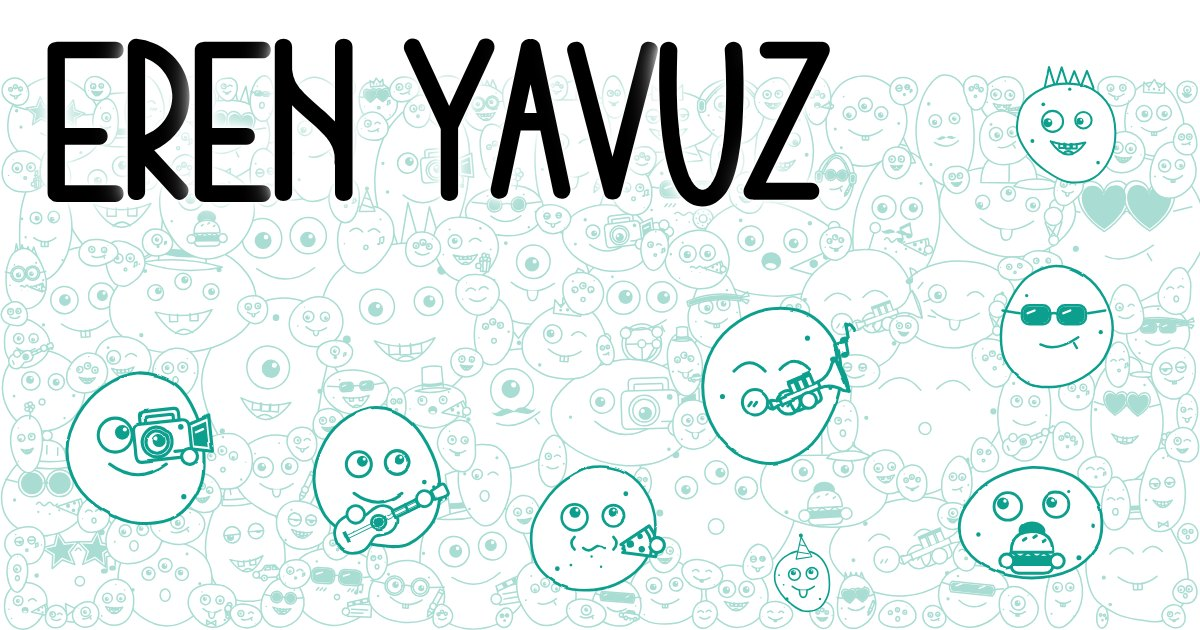
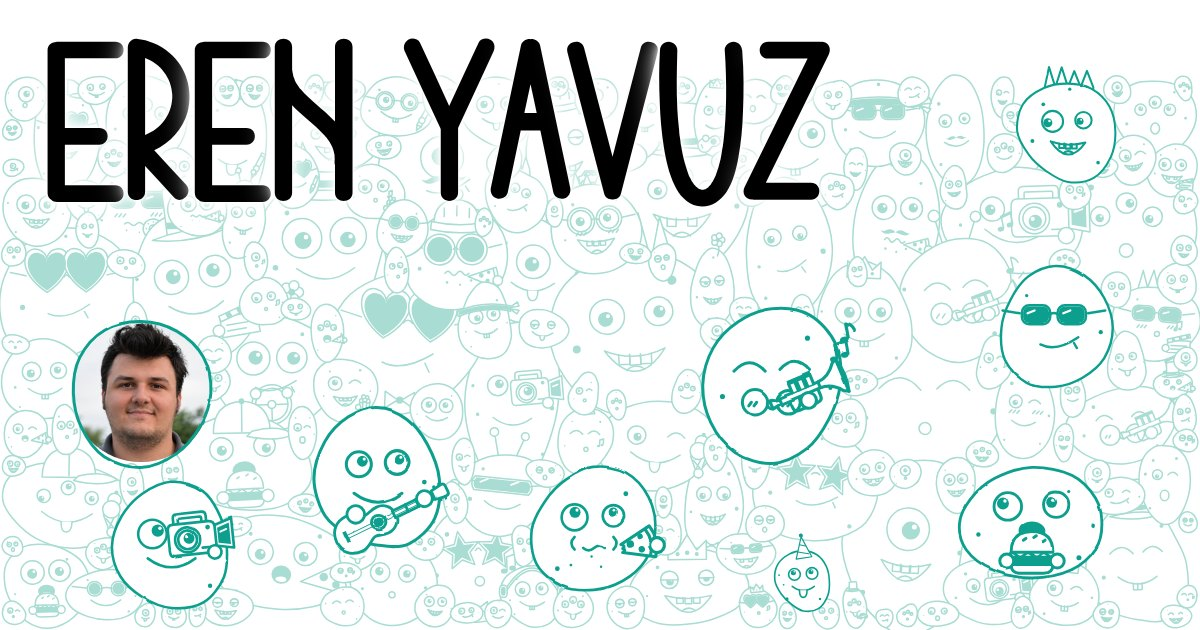
Girişe profil fotoğrafı, süreçten 'Çay' adımı kaldırıldı
- Kamera tutan karakterin yerine yuvarlak profil fotoğrafı (kafalarla aynı boy, elle çizilmiş turkuaz halka); kameralı biraz aşağıda
- Mobil yerleşim yeniden düzenlendi
- Süreç 5 adım; paylaşım görseli ve sitemap güncellendi

Claude-Session: https://claude.ai/code/session_01FnUBnccVDkXZpZL3Fhhb4p

diff --git a/index.html b/index.html
@@ -32,6 +32,7 @@
    "@id": "https://erenyavuz.com/#person",
    "name": "Eren Yavuz",
    "url": "https://erenyavuz.com/",
+   "image": "https://erenyavuz.com/assets/eren.jpg",
    "email": "mailto:hello@erenyavuz.com",
    "jobTitle": [
     "Graphic & Motion Designer",
@@ -470,11 +471,18 @@ ul,ol{padding:0;list-style:none}
 .cast .c1{--x:84%;--y:10%;--w:min(10vw,20vh)}
 .cast .c2{--x:57%;--y:45%;--w:min(15vw,28vh)}
 .cast .c3{--x:82%;--y:39%;--w:min(12vw,23vh)}
-.cast .c4{--x:4%; --y:55%;--w:min(15vw,29vh)}
+.cast .c4{--x:8%; --y:73%;--w:min(13vw,24vh)}
 .cast .c5{--x:24%;--y:60%;--w:min(15vw,30vh)}
 .cast .c6{--x:79%;--y:66%;--w:min(14vw,27vh)}
 .cast .c7{--x:43%;--y:70%;--w:min(13vw,25vh)}
 .cast .c8{--x:63%;--y:82%;--w:min(8vw,15vh)}
+/* Profil fotoğrafı: karakterlerin kafasıyla aynı boyda, elle çizilmiş turkuaz çerçeve */
+.me{position:absolute;z-index:2;left:var(--x);top:var(--y);width:var(--w);aspect-ratio:1;margin:0;pointer-events:none;--x:4.5%;--y:48.5%;--w:min(14.5vw,28vh)}
+.me img{position:absolute;inset:10%;width:80%;height:80%;border-radius:50%;object-fit:cover;background:var(--mint);opacity:0;transform:scale(.8);transition:opacity .5s ease .8s,transform .8s cubic-bezier(.3,1.5,.5,1) .8s}
+.me .ring{position:absolute;inset:0;width:100%;height:100%;overflow:visible}
+.me .ring path{fill:none;stroke:var(--monster);stroke-width:3.4;stroke-linecap:round;stroke-dasharray:1 1;stroke-dashoffset:1;transition:stroke-dashoffset 1.15s var(--ease) .7s}
+.me.in img{opacity:1;transform:none}
+.me.in .ring path{stroke-dashoffset:0}
 
 /* ===== İşler: carousel (kapaklar) + altta açılan galeri ===== */
 .carousel{
@@ -612,12 +620,13 @@ ul,ol{padding:0;list-style:none}
   .name{font-size:clamp(84px,40vw,200px);line-height:.86}
   .name .w{display:block}
   .cast .c1,.cast .c8{display:none}
-  .cast .c3{--x:64%;--y:50.5%;--w:27vw}
-  .cast .c4{--x:3%; --y:52%;--w:32vw}
-  .cast .c2{--x:37%;--y:62.5%;--w:34vw}
-  .cast .c5{--x:2%; --y:71%;--w:34vw}
-  .cast .c6{--x:68%;--y:79%;--w:29vw}
-  .cast .c7{--x:37%;--y:80%;--w:30vw}
+  .me{--x:3%;--y:53.5%;--w:31vw}
+  .cast .c3{--x:66%;--y:51%;--w:27vw}
+  .cast .c2{--x:35%;--y:57.5%;--w:32vw}
+  .cast .c4{--x:2%; --y:67%;--w:30vw}
+  .cast .c5{--x:66%;--y:66%;--w:31vw}
+  .cast .c7{--x:31%;--y:76.5%;--w:30vw}
+  .cast .c6{--x:68%;--y:80%;--w:28vw}
   .carousel{--h:clamp(220px,62vw,420px)}
   .car-hint{display:none}
   .detail-grid{columns:1}
@@ -644,6 +653,7 @@ ul,ol{padding:0;list-style:none}
   .mon .fl{transition:none;opacity:1}
   .pattern .pg{transition:none;opacity:1;transform:none}
   .m.waving .arm,.m:hover .mon,.m.boing .mon,.m.play .frames .fr{animation:none}
+  .me img,.me .ring path{transition:none;opacity:1;transform:none;stroke-dashoffset:0}
   .nav,.chapter{transition:none}
   .d-item{transition:none;opacity:1;transform:none}
 }
@@ -706,6 +716,10 @@ ul,ol{padding:0;list-style:none}
       <span class="m c7" data-m="pizza"     data-seed="5"></span>
       <span class="m c8" data-m="party"     data-seed="15"></span>
     </div>
+    <figure class="me" id="me">
+      <img src="assets/eren.jpg" width="480" height="480" alt="Eren Yavuz" decoding="async" fetchpriority="high">
+      <svg class="ring" viewBox="0 0 200 200" aria-hidden="true" focusable="false"><g filter="url(#boil)"></g></svg>
+    </figure>
     <div class="hero-text">
       <h1 class="name" id="name" aria-label="Eren Yavuz"><span class="w">Eren</span> <span class="w">Yavuz</span></h1>
       <p class="hero-tag">Graphic &amp; Motion Designer /<span> Art&nbsp;Director</span></p>
@@ -777,7 +791,6 @@ ul,ol{padding:0;list-style:none}
           <li><span class="num">03</span><h3 data-i18n="p3.t">Stil kareleri</h3><p data-i18n="p3.d"></p></li>
           <li><span class="num">04</span><h3 data-i18n="p4.t">Hareket</h3><p data-i18n="p4.d"></p></li>
           <li><span class="num">05</span><h3 data-i18n="p5.t">Teslim</h3><p data-i18n="p5.d"></p></li>
-          <li><span class="num">06</span><h3 data-i18n="p6.t">Çay</h3><p data-i18n="p6.d"></p></li>
         </ol>
       </div>
     </div>
@@ -865,7 +878,6 @@ ul,ol{padding:0;list-style:none}
       "p3.t":"Stil kareleri","p3.d":"Aklımızdakileri şekillendirmeye başlarız: renk, kompozisyon, tipografi.",
       "p4.t":"Hareket","p4.d":"Kare kare sahnelerden konuşuruz.",
       "p5.t":"Teslim","p5.d":"Onaylanmış tasarımı talep edilen formatta hazırlarım.",
-      "p6.t":"Çay","p6.d":"Bir sonraki projeye kadar kendime çok iyi bakarım.",
       "cta.l1":"Aklında bir fikir mi var?","cta.l2":"Birlikte gerçekleştirelim.","cta.mail":"E-posta yaz","cta.copy":"Adresi kopyala","cta.copied":"Kopyalandı",
       "footer.elsewhere":"Başka yerlerde","footer.time":"İstanbul'da saat","footer.top":"Başa dön",
       "meta.desc":"Eren Yavuz, İstanbul'da grafik ve motion tasarımcı, art director: product, key visual, kampanya, ambalaj, motion, sosyal medya, print ve etkinlik tasarımı."
@@ -888,7 +900,6 @@ ul,ol{padding:0;list-style:none}
       "p3.t":"Style frames","p3.d":"We start shaping what's in our heads: colour, composition, typography.",
       "p4.t":"Motion","p4.d":"We talk through the scenes, frame by frame.",
       "p5.t":"Delivery","p5.d":"I prepare the approved design in the formats you need.",
-      "p6.t":"Tea","p6.d":"Until the next project, I take very good care of myself.",
       "cta.l1":"Got an idea?","cta.l2":"Let's make it happen.","cta.mail":"Write an email","cta.copy":"Copy address","cta.copied":"Copied",
       "footer.elsewhere":"Elsewhere","footer.time":"Time in Istanbul","footer.top":"Back to top",
       "meta.desc":"Eren Yavuz is an Istanbul-based graphic and motion designer and art director: product, key visual, campaign, packaging, motion, social media, print and event design."
@@ -1571,6 +1582,10 @@ ul,ol{padding:0;list-style:none}
     el.addEventListener("animationend", e => { if (e.animationName === "squash") el.classList.remove("boing"); });
   }
 
+  /* ---------- Profil fotoğrafı: elle çizilmiş halka ---------- */
+  const me = $("#me");
+  $(".ring g", me).innerHTML = `<path pathLength="1" d="${blob(rand(77), 100, 100, 81.5, 81.5, .55)}"/>`;
+
   /* ---------- Giriş: boşluksuz, kesilmeyen canavar kalabalığı ---------- */
   const hero = $("#hero"), pattern = $("#pattern"), nav = $("#nav");
   let patternW = 0;
@@ -1597,7 +1612,7 @@ ul,ol{padding:0;list-style:none}
       }
     };
     const hb = hero.getBoundingClientRect();
-    $$(".cast .m").filter(el => el.offsetParent).forEach(el => {
+    $$(".cast .m, #me").filter(el => el.offsetParent).forEach(el => {
       const b = el.getBoundingClientRect();
       add(b.left - hb.left + b.width / 2, b.top - hb.top + b.width * .56, b.width * .46);
     });
@@ -1838,6 +1853,7 @@ ul,ol{padding:0;list-style:none}
     });
   }, { threshold:.15 });
   $$(".m[data-m]").forEach(el => io.observe(el));
+  io.observe(me);
   document.addEventListener("animationend", e => {
     if (e.animationName === "wave") e.target.closest(".m")?.classList.remove("waving");
   });

diff --git a/DESIGN.md b/DESIGN.md
@@ -75,6 +75,8 @@ Kural: Sayfada tek renk vurgu var, o da turkuaz. Başlıkta tek bir kelimeyi ren
 - **Giriş kalabalığı**: Giriş ekranını boşluksuz dolduran, açık turkuaz (`#A9DCD2`), 1.5px çizgili canavarlar.
   Hiçbiri kenardan ya da menünün altından kesilmez; büyükten küçüğe boşlukları doldurarak yerleşir.
   Etkileşimsiz. Üstünde 8 (mobilde 6) tam görünen, etkileşimli canavar asimetrik dağılır.
+- **Profil fotoğrafı**: Girişte sol tarafta, karakterlerin kafasıyla aynı boyda yuvarlak fotoğraf (`assets/eren.jpg`,
+  480×480). Çevresinde karakterlerle aynı turkuaz, elle çizilmiş ve titreşen halka; kamera tutan karakter hemen altında.
 - **Hareketli karakterler (GIF gibi)**: 2-5 karelik, adım adım değişen döngüler; ara geçiş yok.
   Hamburger yiyen ve pizza yiyen (ağız açar, ısırır, çiğner, kırıntı döker; 5 kare, 1.1 sn),
   trompetçi (gözler kapalı, yanaklar şişik, notalar yükselir; 3 kare, 0.75 sn),
